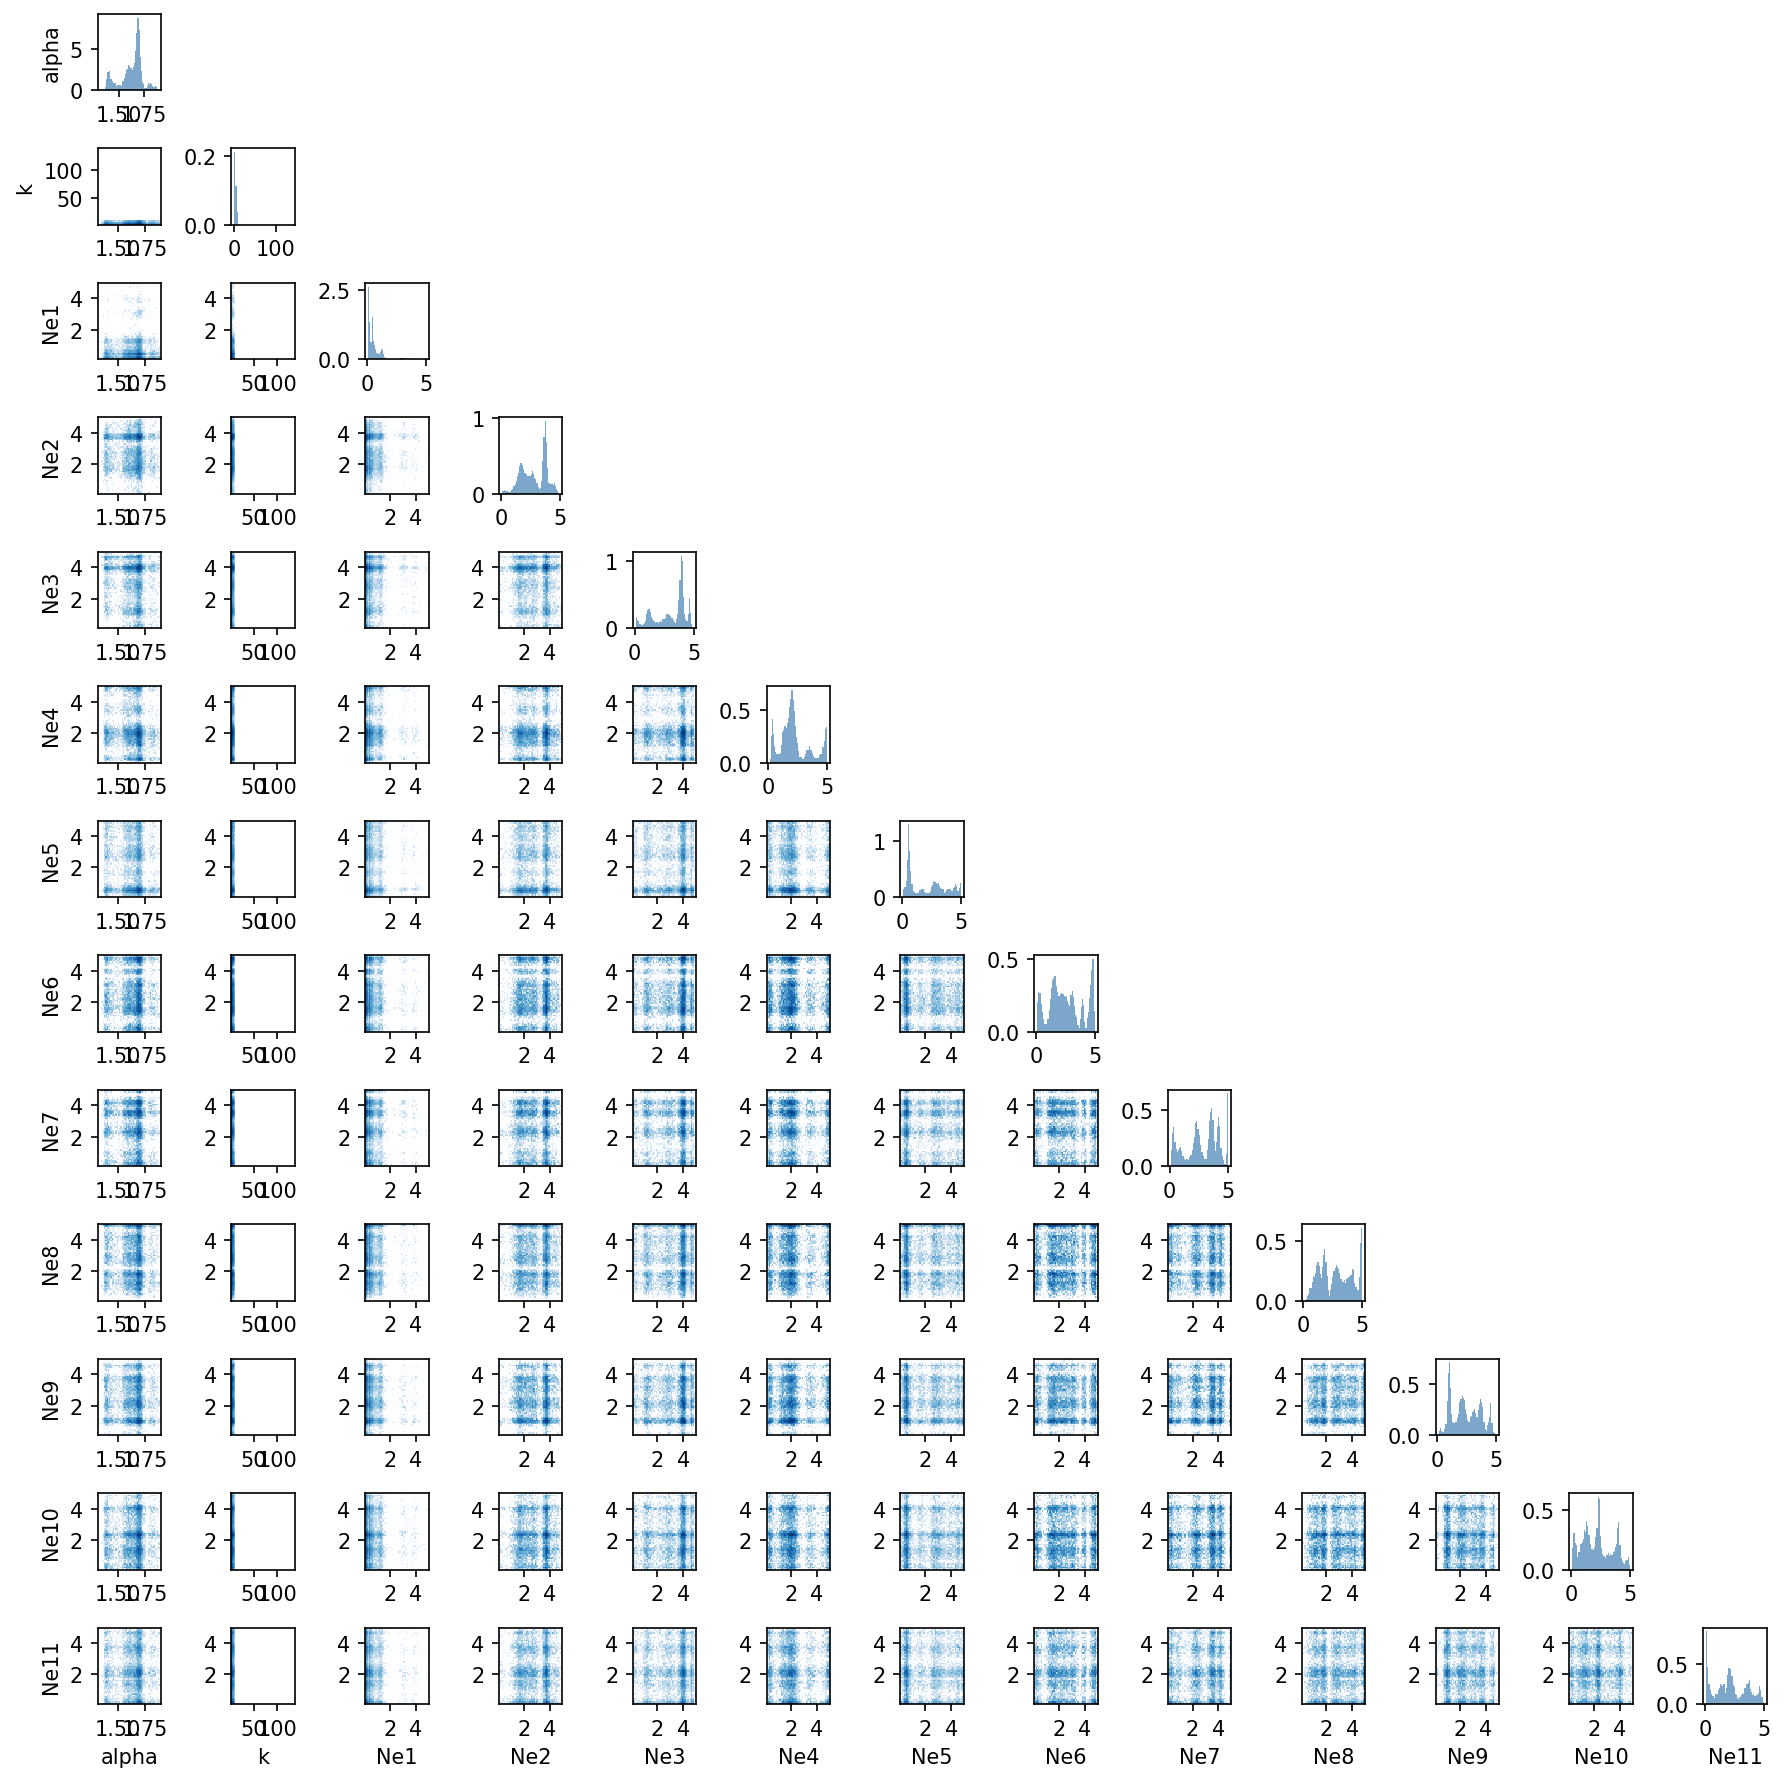
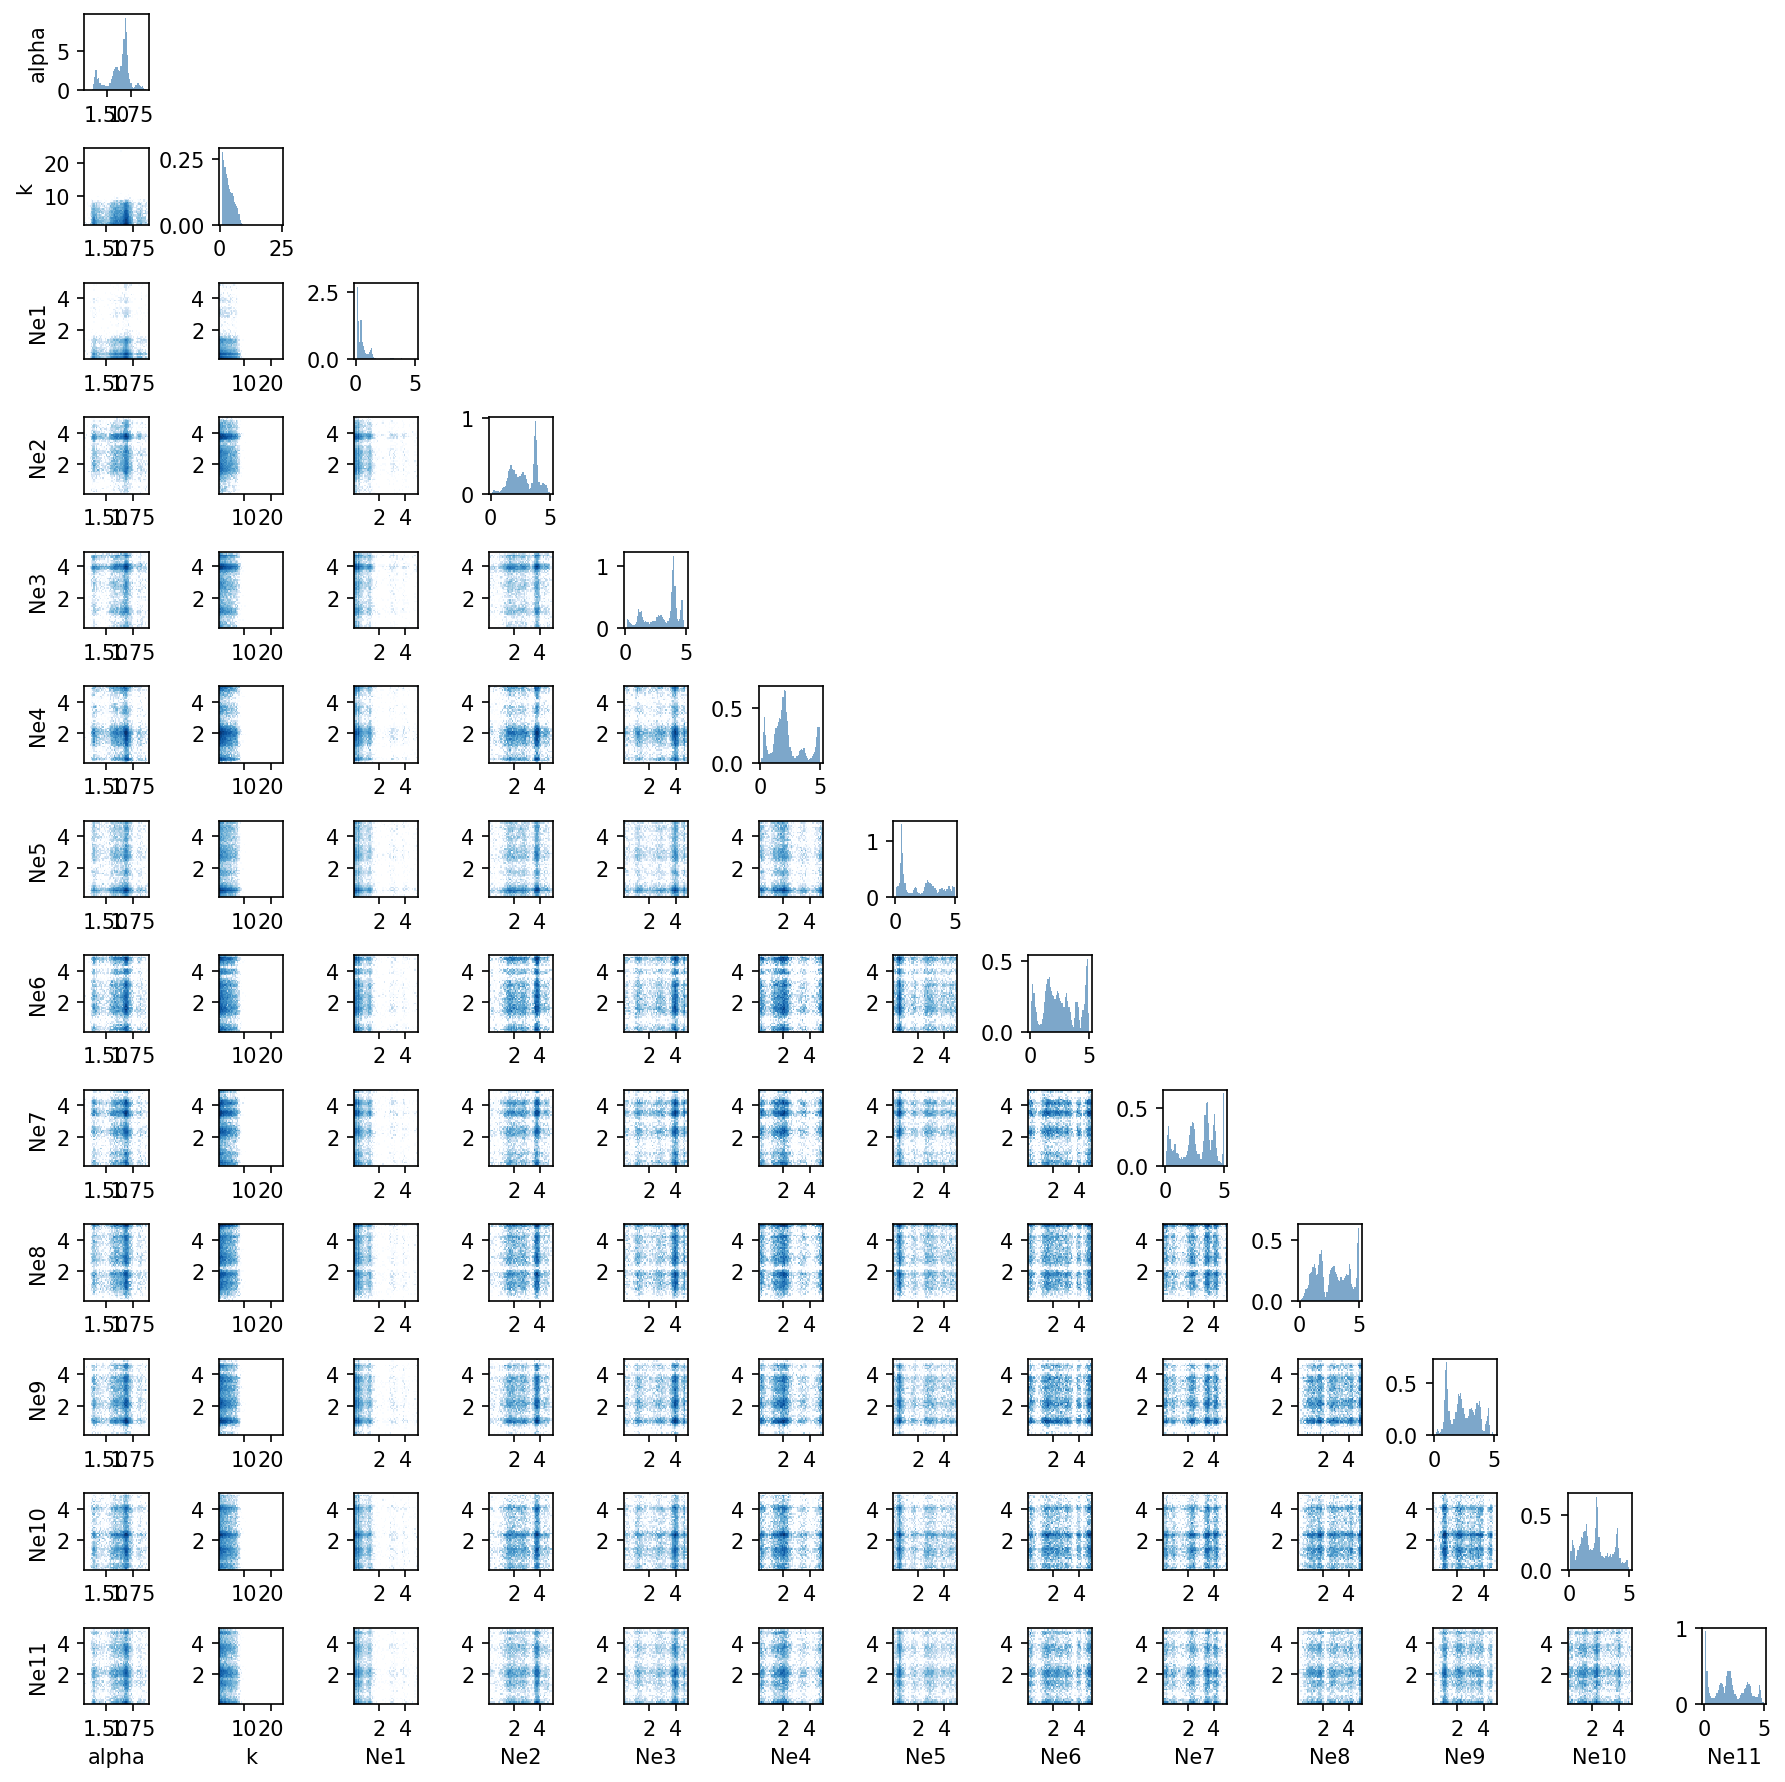
NSF marginal plots

diff --git a/SBI.py b/SBI.py
@@ -874,7 +874,7 @@ if __name__ == "__main__":
         pd.DataFrame(samples_np, columns=param_names).to_csv(f"{stem}_samples.csv", index=False)
         print(f"Saved {stem}_samples.csv")
 
-        # Marginal posteriors
+        # Marginal posteriors — combined panel
         fig, axes = plt.subplots(1, len(param_names), figsize=(4 * len(param_names), 5))
         for i, (name, ax) in enumerate(zip(param_names, axes)):
             col = samples_np[:, i]
@@ -897,6 +897,61 @@ if __name__ == "__main__":
         plt.savefig(f"{stem}_marginals.png", dpi=150, bbox_inches="tight")
         plt.close()
         print(f"Saved {stem}_marginals.png")
+
+        # Marginal posteriors — individual plots per parameter
+        os.makedirs(f"{stem}_marginals", exist_ok=True)
+        for i, name in enumerate(param_names):
+            col = samples_np[:, i]
+            mean = col.mean()
+            std = col.std()
+            ci_lo = np.percentile(col, 2.5)
+            ci_hi = np.percentile(col, 97.5)
+            fig, ax = plt.subplots(figsize=(4, 4))
+            ax.hist(col, bins=50, density=True, color="steelblue", alpha=0.7)
+            ax.axvline(mean, color="black", linewidth=1.2, linestyle="--", label="mean")
+            ax.axvspan(ci_lo, ci_hi, alpha=0.15, color="black", label="95% CI")
+            ax.set_title(name, fontsize=13)
+            ax.set_xlabel("Value", fontsize=11)
+            ax.set_ylabel("Density", fontsize=11)
+            ax.text(0.97, 0.97,
+                    f"mean={mean:.3f}\nstd={std:.3f}\nCI=[{ci_lo:.3f}, {ci_hi:.3f}]",
+                    transform=ax.transAxes, ha="right", va="top",
+                    fontsize=8, family="monospace",
+                    bbox=dict(boxstyle="round,pad=0.3", fc="white", alpha=0.8))
+            plt.tight_layout()
+            out = os.path.join(f"{stem}_marginals", f"{stem}_marginal_{name}.png")
+            plt.savefig(out, dpi=150, bbox_inches="tight")
+            plt.close()
+        print(f"Saved individual marginals to {stem}_marginals/")
+
+        # Combined alpha + Ne1 panel
+        fig, axes = plt.subplots(1, 2, figsize=(8, 4))
+        for ax, name in zip(axes, ["alpha", "Ne1"]):
+            i = param_names.index(name)
+            col = samples_np[:, i]
+            mean = col.mean()
+            std = col.std()
+            ci_lo = np.percentile(col, 2.5)
+            ci_hi = np.percentile(col, 97.5)
+            ax.hist(col, bins=50, density=True, color="steelblue", alpha=0.7)
+            ax.axvline(mean, color="black", linewidth=1.2, linestyle="--", label="Mean")
+            ax.axvspan(ci_lo, ci_hi, alpha=0.15, color="black", label="95% CI")
+            label = r"$\alpha$" if name == "alpha" else r"$N_{e,1}$ (10–50 gen)"
+            ax.set_title(label, fontsize=13)
+            ax.set_xlabel("Value", fontsize=11)
+            ax.set_ylabel("Density", fontsize=11)
+            ax.text(0.97, 0.97,
+                    f"mean={mean:.3f}\nstd={std:.3f}\nCI=[{ci_lo:.3f}, {ci_hi:.3f}]",
+                    transform=ax.transAxes, ha="right", va="top",
+                    fontsize=8, family="monospace",
+                    bbox=dict(boxstyle="round,pad=0.3", fc="white", alpha=0.8))
+            if name == "alpha":
+                ax.legend(fontsize=8)
+        plt.tight_layout()
+        alpha_ne1_path = f"{stem}_marginal_alpha_Ne1.png"
+        plt.savefig(alpha_ne1_path, dpi=150, bbox_inches="tight")
+        plt.close()
+        print(f"Saved {alpha_ne1_path}")
 
         # Joint posterior
         n_params = len(param_names)